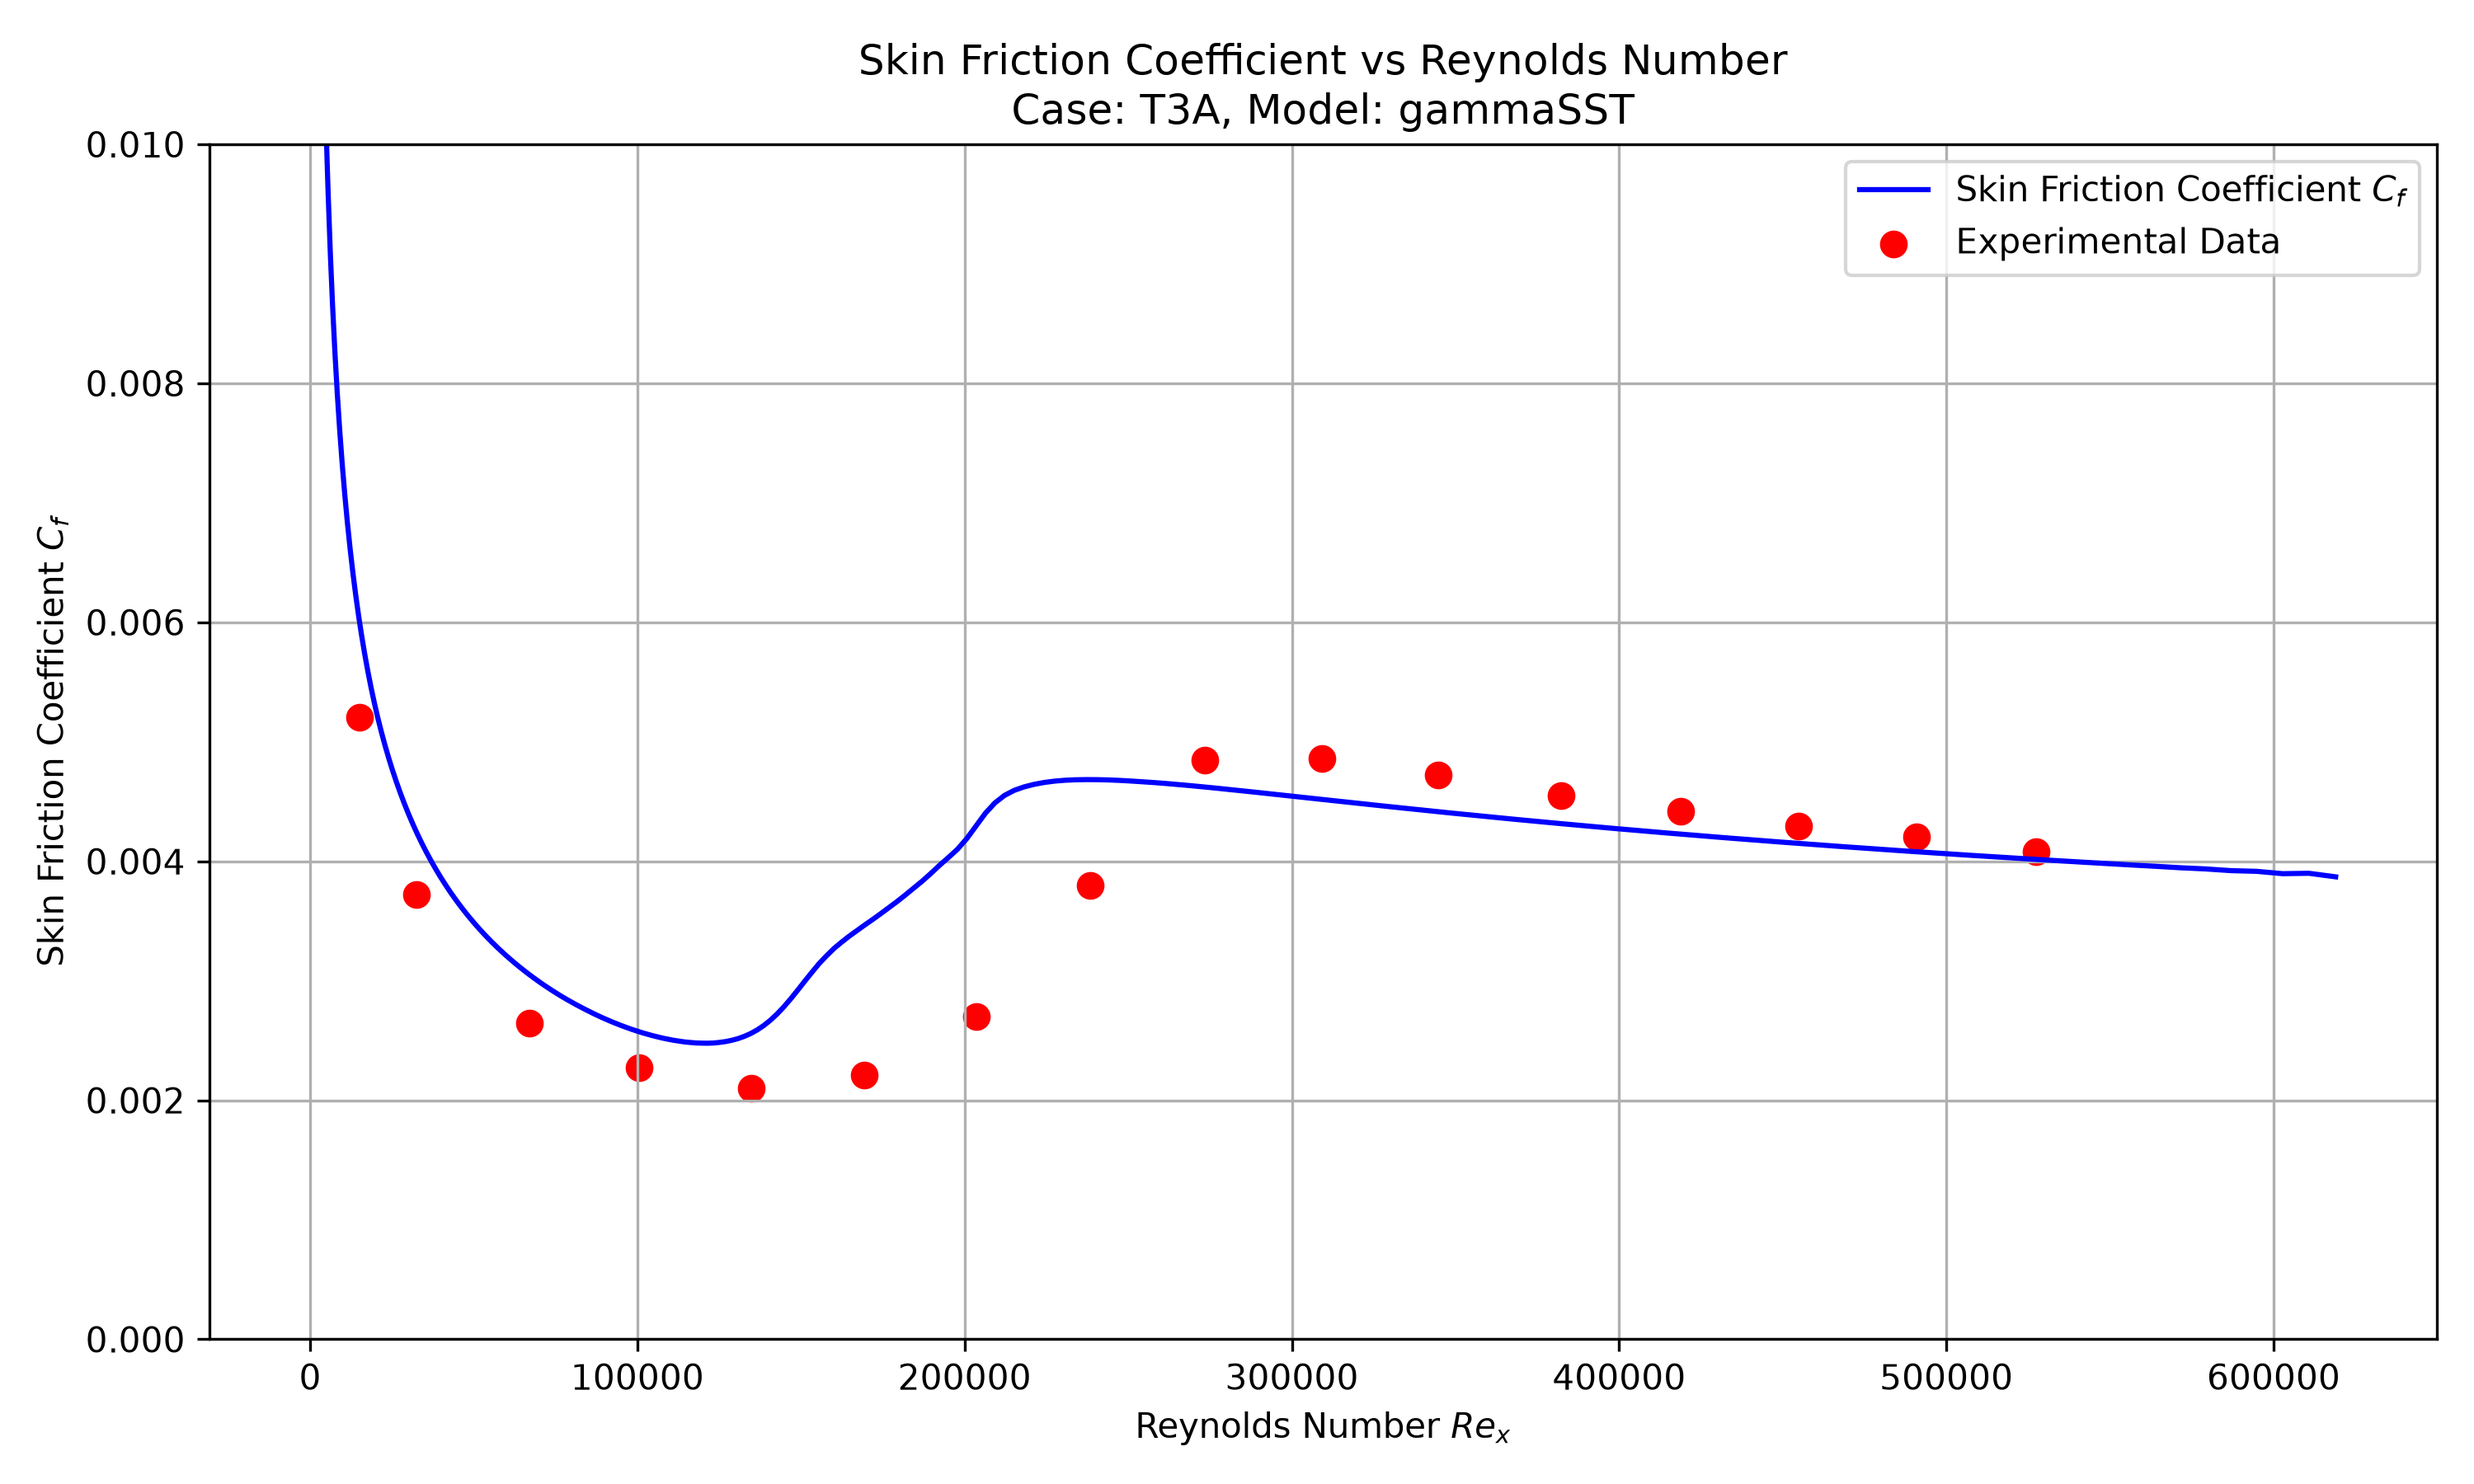
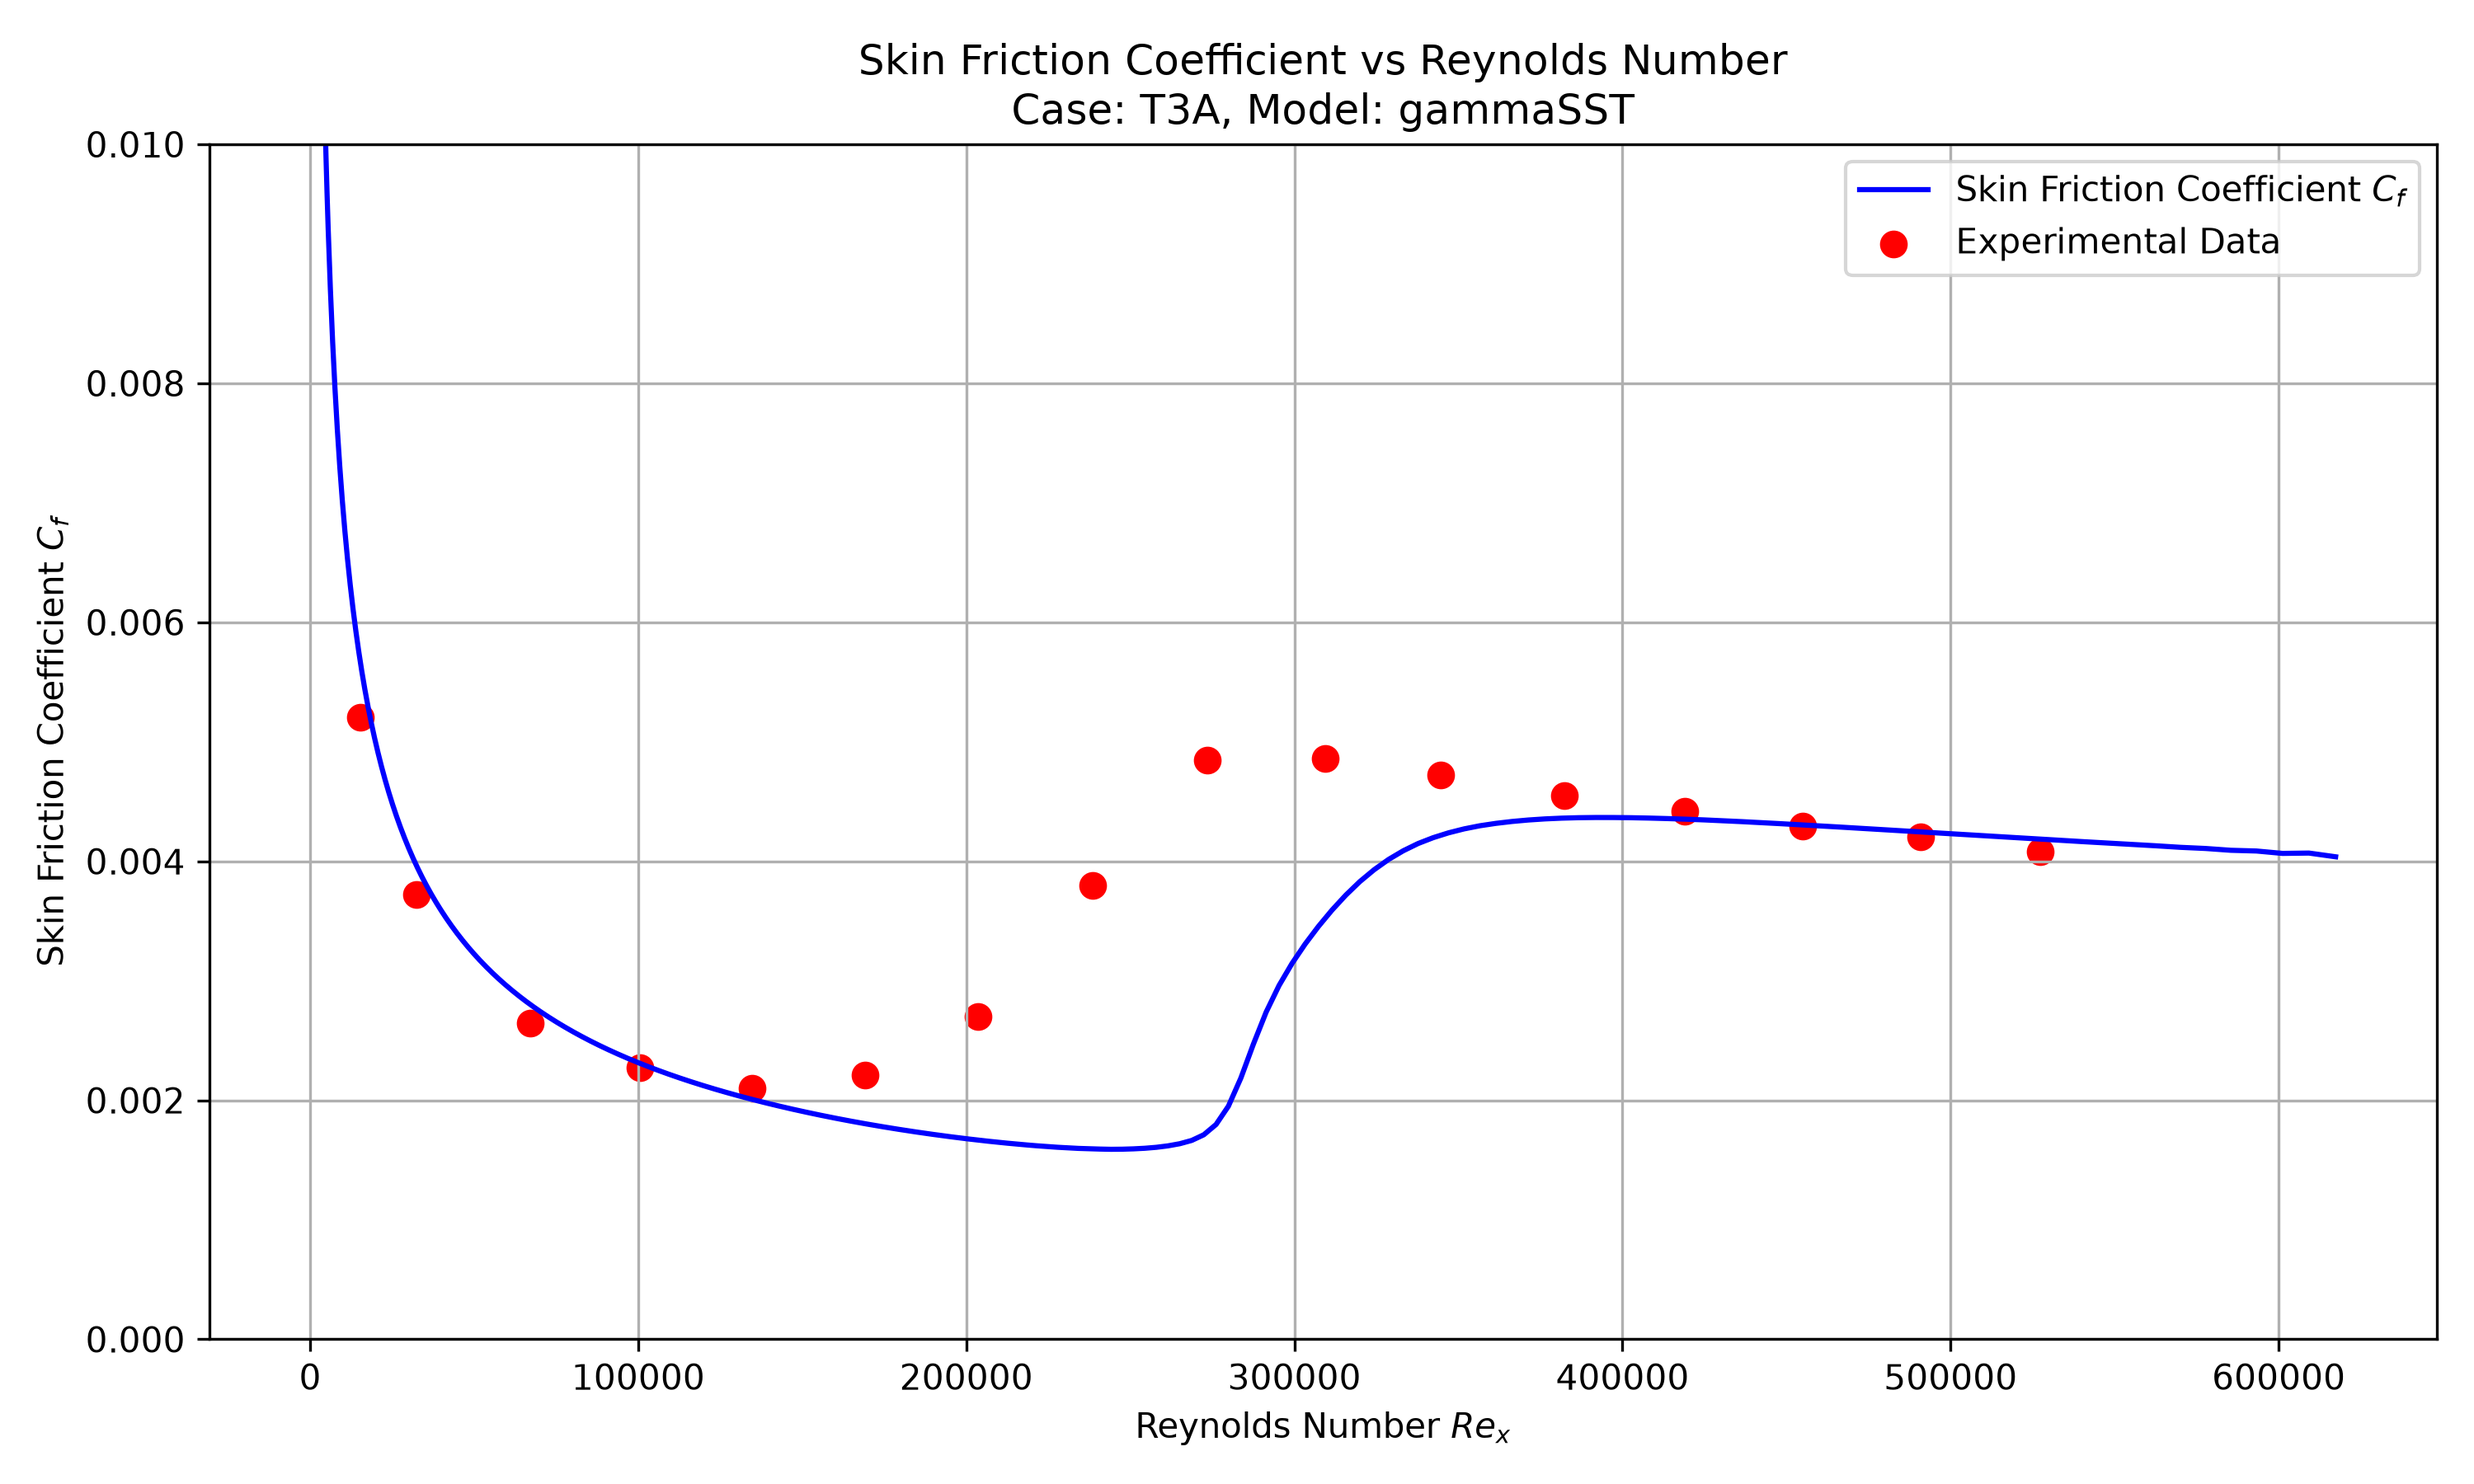
Update EARSM gamma SST T3A case

diff --git a/turbulenceModels/RAS/EARSM/EARSMgammaSST.C b/turbulenceModels/RAS/EARSM/EARSMgammaSST.C
@@ -83,6 +83,42 @@ EARSMgammaSST<BasicTurbulenceModel>::EARSMgammaSST
 
 // * * * * * * * * * * * * * * * Member Functions  * * * * * * * * * * * * * //
 
+template<class BasicTurbulenceModel>
+tmp<volScalarField> EARSMgammaSST<BasicTurbulenceModel>::F1
+(
+    const volScalarField& CDkOmega
+) const
+{
+    // Compute gradKgradOmegaByOmega from CDkOmega
+    // SST defines CDkOmega = 2*alphaOmega2_ * (gradK & gradOmega) / omega
+    // We need to remove the 2*alphaOmega2_ factor
+    volScalarField gradKgradOmegaByOmega = CDkOmega / (2.0 * this->alphaOmega2_);
+
+    const dimensionedScalar kMin_
+    (
+        "kMin",
+        this->k_.dimensions(),
+        max(this->kInf_.value(), SMALL)
+    );
+
+    // EARSM fMix blending function (Hellsten 2005)
+    tmp<volScalarField> Gamma = min
+    (
+        min
+        (
+            max
+            (
+                sqrt(this->k_) / (this->betaStar_ * this->omega_ * this->y_),
+                scalar(500) * this->nu() / (this->omega_ * sqr(this->y_))
+            ),
+            scalar(20) * this->k_ / max(sqr(this->y_) * gradKgradOmegaByOmega, scalar(200) * kMin_)
+        ),
+        scalar(10)
+    );
+
+    return tanh(scalar(1.5) * pow4(Gamma));
+}
+
 
 template<class BasicTurbulenceModel>
 bool EARSMgammaSST<BasicTurbulenceModel>::read()

diff --git a/turbulenceModels/RAS/EARSM/EARSMgammaSST.H b/turbulenceModels/RAS/EARSM/EARSMgammaSST.H
@@ -83,6 +83,9 @@ protected:
 
     // Member Functions
 
+    //- Return the first blending function (EARSM fMix formula)
+    virtual tmp<volScalarField> F1(const volScalarField& CDkOmega) const;
+
 public:
 
     using scaleModel = kOmegaSSTLM<BasicTurbulenceModel>;
